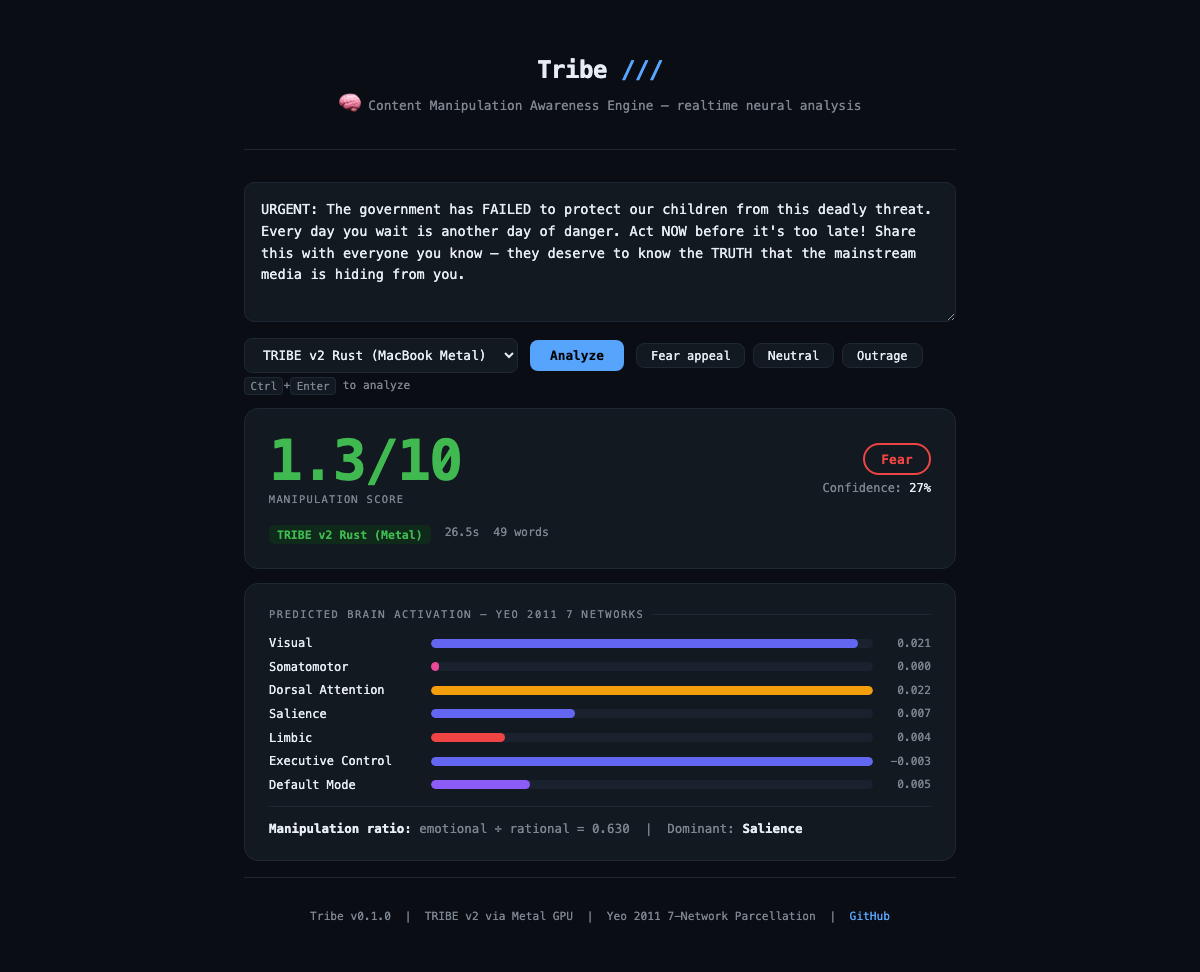
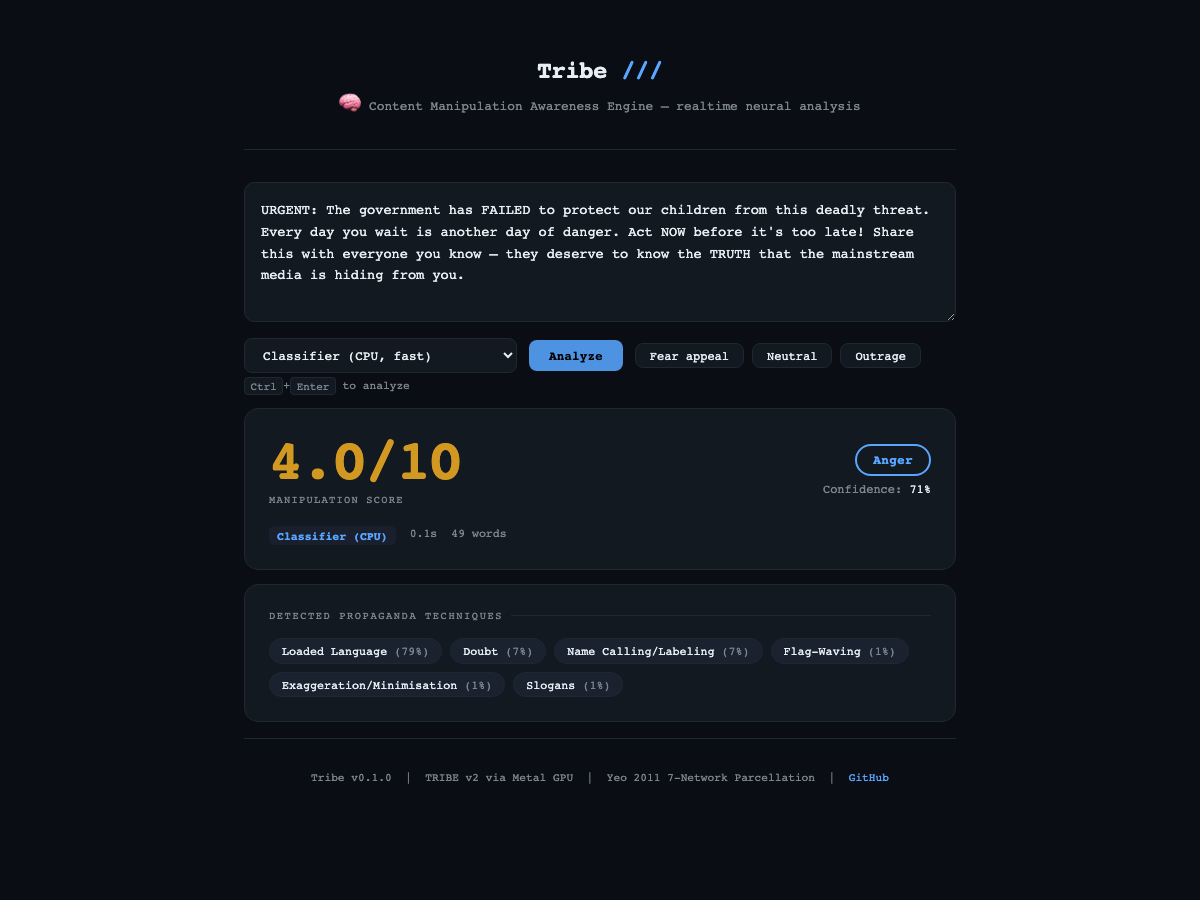
docs: fix screenshots, CLI examples, and license files
- Replace screenshots with fresh ones showing correct bar animation
- Fix LICENSE: now correctly contains GPL-3.0 (was swapped with CC-BY-NC)
- Fix LICENSE-TRIBE-V2: now correctly contains CC-BY-NC-4.0
- Fix README CLI examples to match actual command output
- README screenshots now clearly labeled "same input, different backends"
- Fix diagram manipulation score: 0.8 → 1.3

diff --git a/README.md b/README.md
@@ -13,20 +13,34 @@ Tribe analyzes any text and predicts how human brains respond to it — using th
 
 ## Demo Screenshots
 
-**TRIBE v2 Rust (Metal GPU — brain network visualization):**
-<img src="images/demo-rust.png" alt="TRIBE v2 Rust demo — brain network activation bars" width="100%">
+Both screenshots analyze the same text ("Fear appeal" example). Same input, different backends:
 
-**Classifier backend (CPU — technique detection):**
-<img src="images/demo-classifier.png" alt="Classifier demo — propaganda technique detection" width="100%">
+**Classifier (CPU, ~200ms) — propaganda technique detection:**
+<img src="images/demo-classifier.png" alt="Classifier backend — propaganda technique detection" width="100%">
+
+**TRIBE v2 Rust (Metal GPU, ~25s) — brain network activation:**
+<img src="images/demo-rust.png" alt="TRIBE v2 Rust backend — brain network activation bars" width="100%">
 
 ---
 
+### CLI Output
+
 ```bash
-$ tribe analyze "The government has FAILED to protect our children..."
+# Fast (Classifier, ~200-600ms, no GPU needed)
+$ tribe analyze tests/fixtures/manipulative_article.txt
 ⚠ This content is designed to trigger a FEAR response.
   Manipulation score: 4.0/10
-  Primary trigger: Fear
-  Backend: tribe_v2_rust | Time: 24s
+  Primary emotion targeted: Fear
+  Techniques: name calling/labeling (low), loaded language (low), doubt (low), slogans (low)
+  Backend: classifier | Time: ~580ms
+
+# Neural (TRIBE v2 Rust, ~25s, MacBook Metal GPU)
+$ tribe analyze tests/fixtures/manipulative_article.txt --backend rust
+ℹ  This content tends toward a Fear tone. Low manipulation signal.
+   Manipulation score: 1.2/10
+   Primary emotion targeted: Fear
+   Neural analysis: salience network activates 0.6x above executive control network
+   Backend: tribe_v2_rust | Time: ~28s
 ```
 
 ## Why This Exists
@@ -164,7 +178,7 @@ Backends:
                             │
                             ▼
          ┌─────────────────────────────────┐
-         │  Manipulation Score: 0.8/10     │
+         │  Manipulation Score: 1.3/10     │
          │  Primary Trigger: Fear          │
          │  Brain Networks: Visual,        │
          │    Dorsal Attention, Salience,  │
